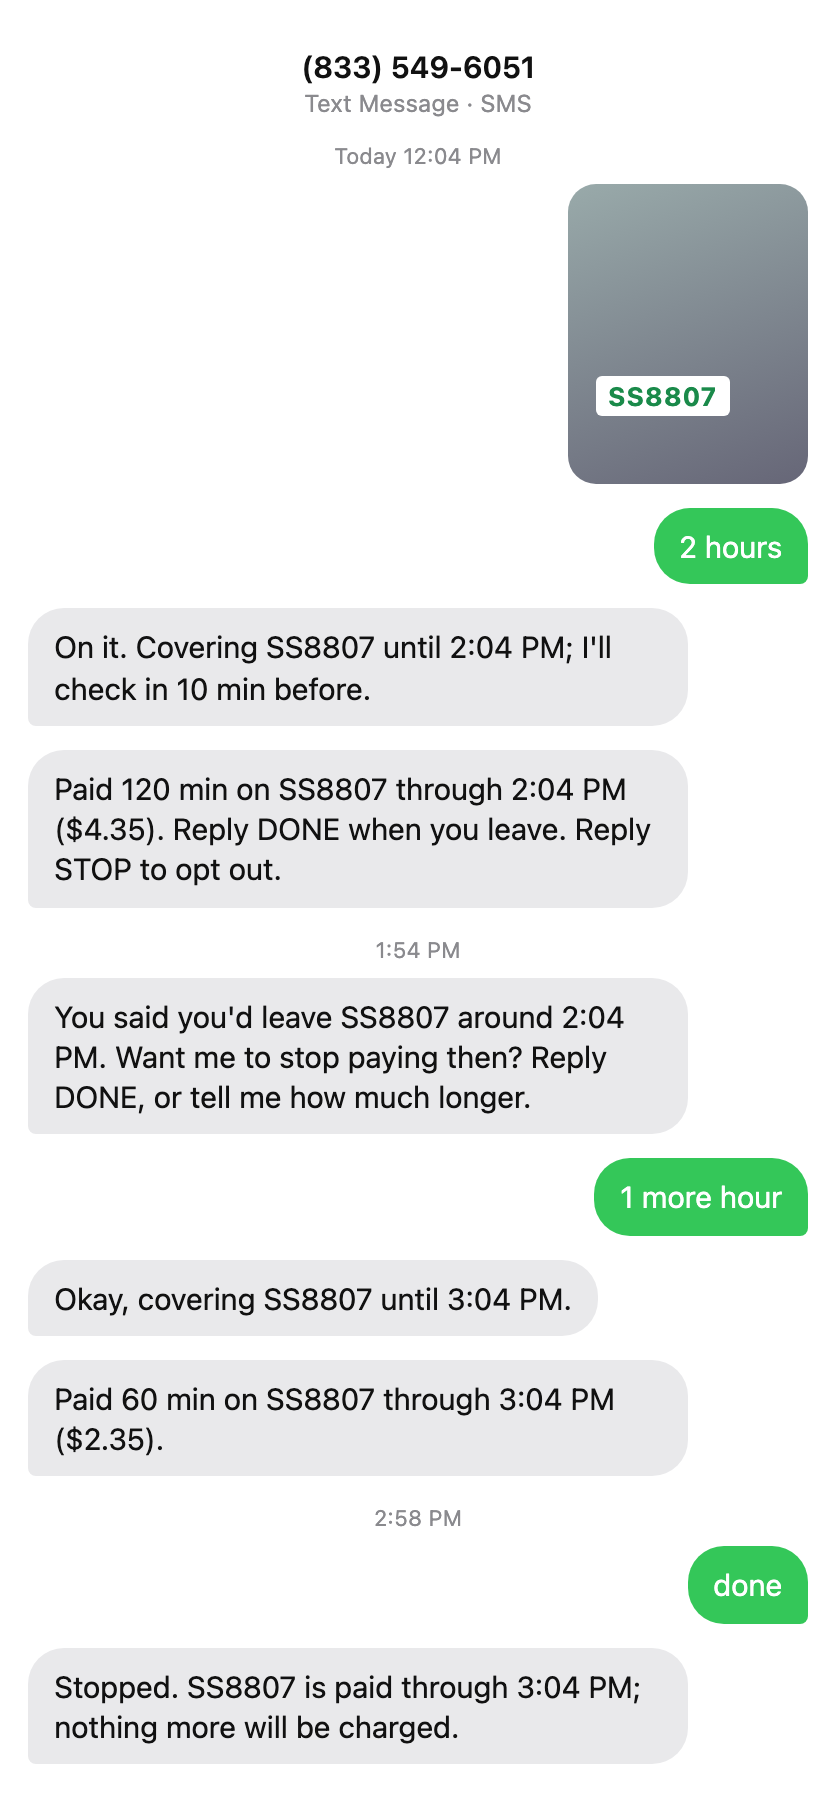
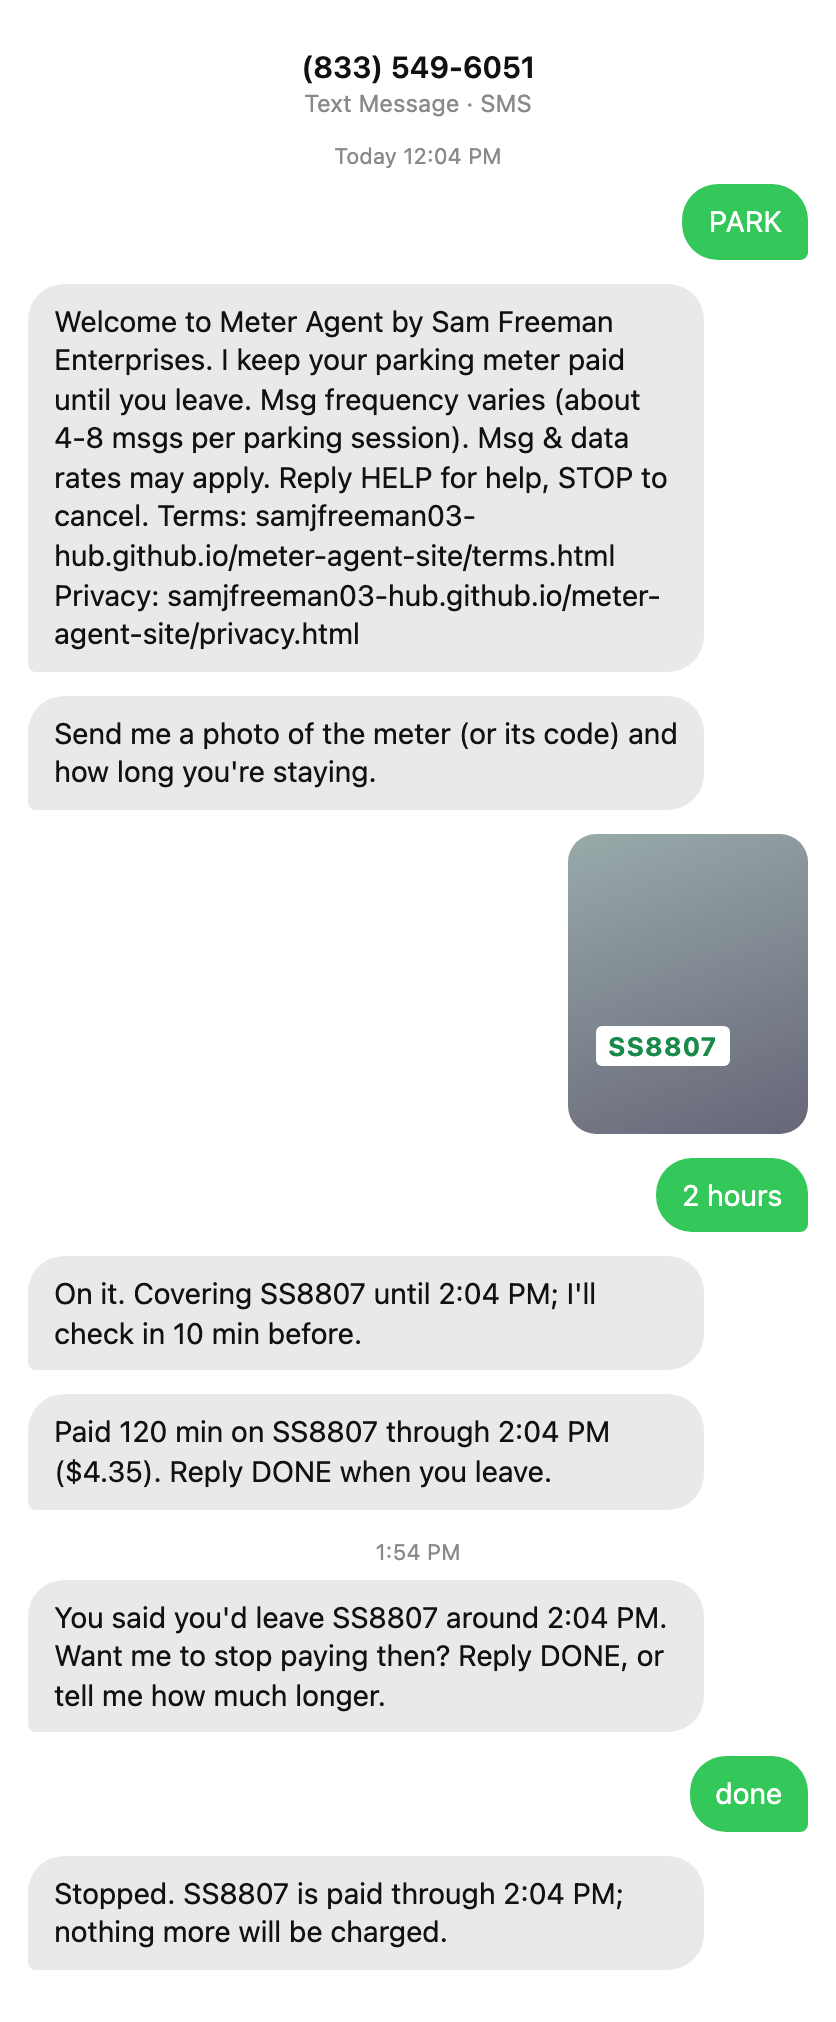
Add keyword campaign and welcome message to opt-in proof

diff --git a/index.html b/index.html
@@ -29,6 +29,8 @@
 
 <h2>How people opt in</h2>
 <div class="box">
+  <p><strong>Keyword campaign:</strong> a user texts <strong>PARK</strong> (or a photo of their parking meter) to <strong>(833) 549-6051</strong>. Meter Agent replies with this welcome message:</p>
+  <p><em>"Welcome to Meter Agent by Sam Freeman Enterprises. I keep your parking meter paid until you leave. Msg frequency varies (about 4-8 msgs per parking session). Msg &amp; data rates may apply. Reply HELP for help, STOP to cancel. Terms: samjfreeman03-hub.github.io/meter-agent-site/terms.html Privacy: samjfreeman03-hub.github.io/meter-agent-site/privacy.html"</em></p>
   <p>Meter Agent never sends the first message. A user opts in by sending the first text message to (833) 549-6051. Every conversation is started by the user. Before a phone number can use the service, the account owner adds it to the approved list; unapproved numbers receive a single reply explaining that the service is private, and nothing further.</p>
   <p>Users can stop at any time by replying <strong>STOP</strong>. Replying <strong>HELP</strong> returns instructions. Message and data rates may apply. Message frequency varies with how long the user is parked, typically 4 to 8 messages per parking session.</p>
 </div>
